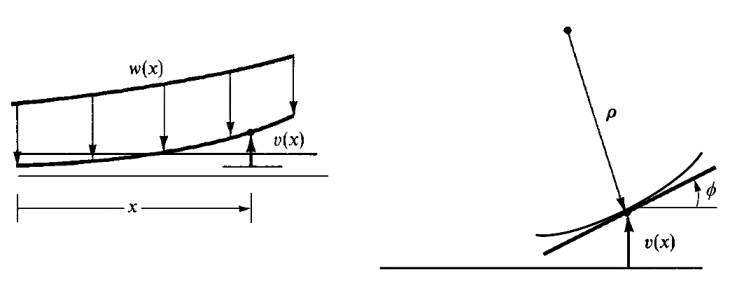
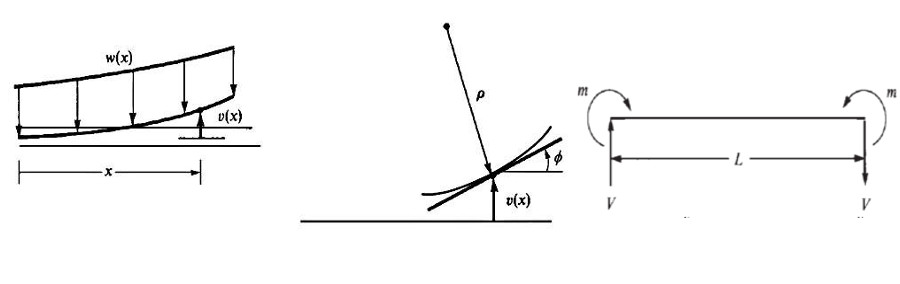
-

diff --git a/phy/phy_020_strs_07/phy_020_strs_07.tex b/phy/phy_020_strs_07/phy_020_strs_07.tex
@@ -254,7 +254,7 @@ gerekli. Bu kiriş parçasının iki ucuna bakacağız, bu uçlar yer değişimi
 ufak bir dönüş açısına sahip olabilecekler. Yani her uçta iki olmak üzere
 bu sistemde toplam dört derece serbestlik var. Fonksiyon $v(x)$,
 
-\includegraphics[width=20em]{phy_020_strs_05_09.jpg}
+\includegraphics[width=25em]{phy_020_strs_05_09.jpg}
 
 Bu fonksiyonu
 
@@ -338,7 +338,7 @@ $m_2$ diyelim,
 
 \includegraphics[width=20em]{phy_020_strs_05_10.jpg}
 
-Moment $m(x)$, kesme / teğetsel $V$ formüllerini bir kez daha hatırlarsak
+Moment $m(x)$, kesme / teğetsel $v(x)$ formüllerini bir kez daha hatırlarsak
 
 $$
 m(x) = EI \frac{\ud^2 v}{\ud x^2}, \quad
@@ -367,7 +367,11 @@ m_2 = m = EI \frac{\ud^2 v(L)}{\ud x^2} =
 \frac{EI}{L^3} ( 6L v_1 + 2L^2 \phi_1 - 6L v_2 + 4 L^2 \phi_2)
 $$
 
-Matris formunda üstteki dört formülü şu şekilde gösterebiliriz,
+Değişkenler $m,V$ bir önceki resimde (en sağ) gösterilmişti. İşaret kuralları
+şöyle, momentler ve rotasyonlar saat yönü tersinde artı işaretlidir, kuvvetler
+ve yer değişimler pozitif $y$ yönünde artı işaretlidir.
+
+Matris formunda üstteki dört formülü şu şekilde tanimlayabiliriz,
 
 $$
 \left[\begin{array}{c}
@@ -655,3 +659,6 @@ Kaynaklar
 [4] Bayramlı, {\em Hesapsal Bilim, Ders 1-15}
 
 \end{document}
+
+
+

diff --git a/phy/phy_020_strs_11/phy_020_strs_11.tex b/phy/phy_020_strs_11/phy_020_strs_11.tex
@@ -2,17 +2,6 @@
 \begin{document}
 Materyel Mekaniği - 11
 
-\begin{minted}[fontsize=\footnotesize]{python}
-import sys; sys.path.append('../phy_020_strs_08')
-import dfutil
-
-df = pd.DataFrame([['a','c'],['b','d']],columns = ['u1','u3'])
-\end{minted}
-
-
-
-
-
 
 \includegraphics[width=20em]{phy_020_strs_11_01.jpg}
 
